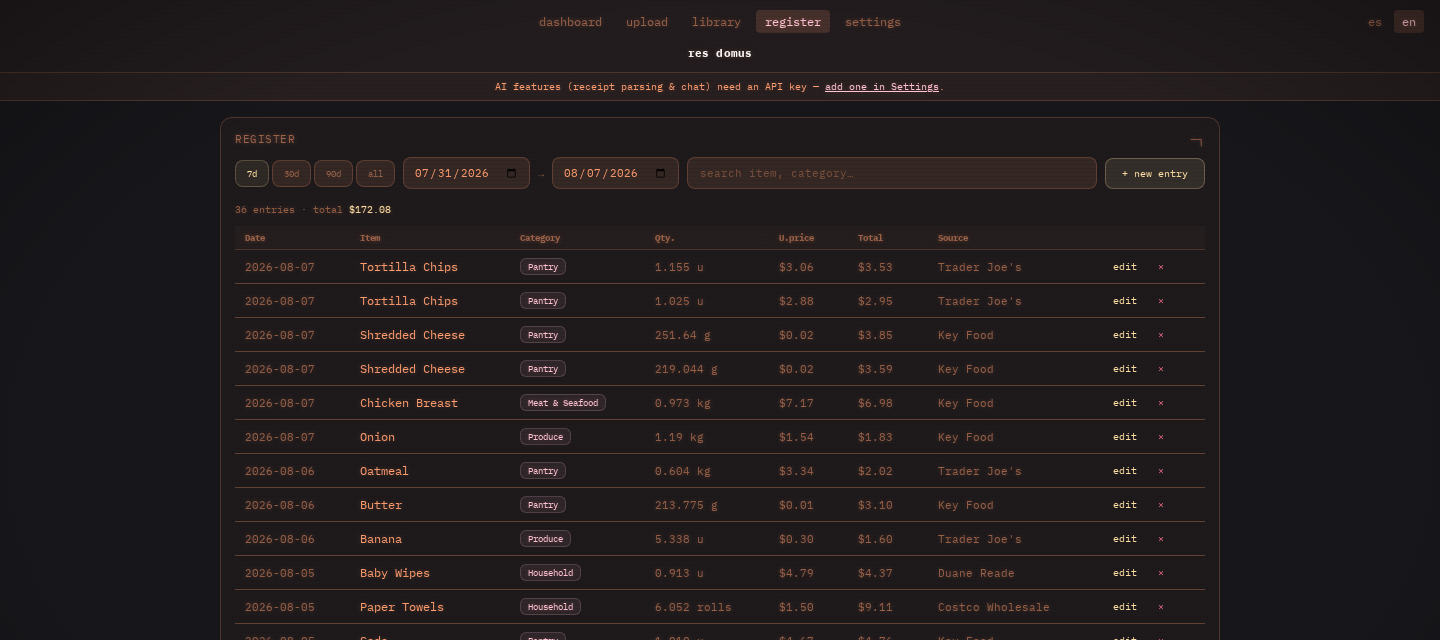
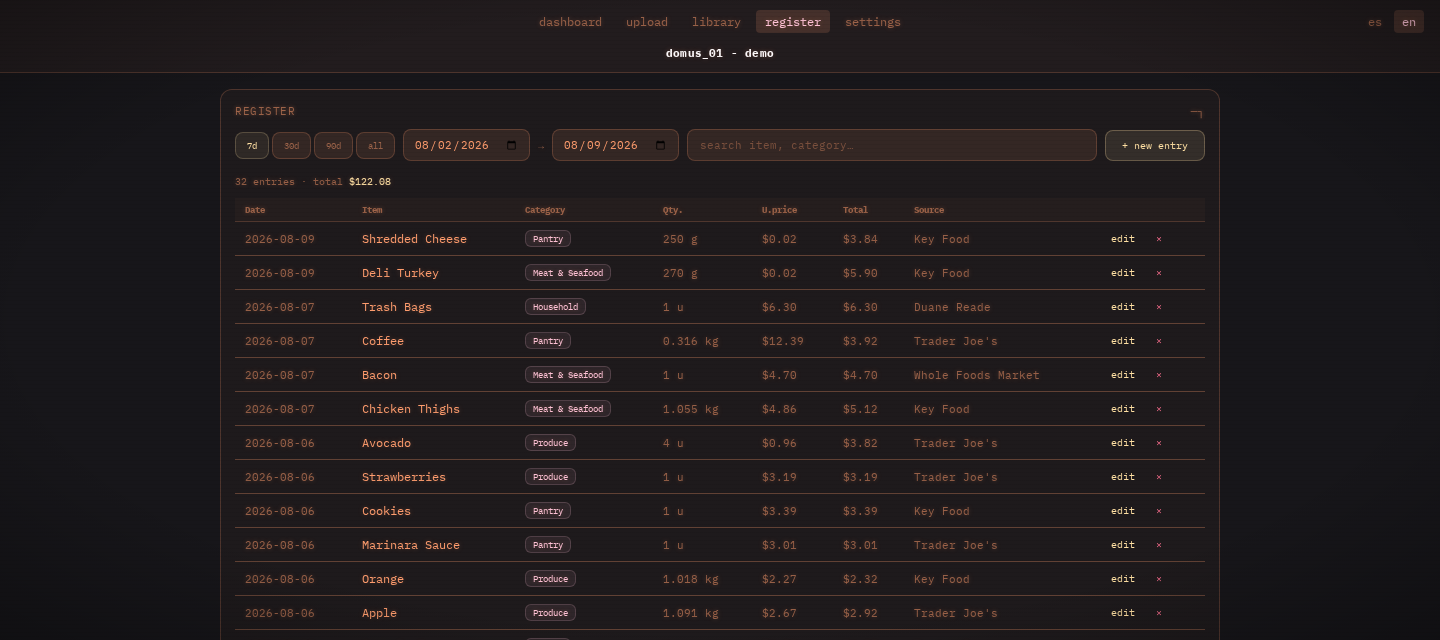
Round all demo quantities to realistic units, refresh stale register screenshot

diff --git a/scripts/generate_sample_db.py b/scripts/generate_sample_db.py
@@ -72,9 +72,12 @@ def iter_months(months_back: int):
 
 
 def round_qty(quantity: float, unit: str) -> float:
-    """Real receipts report gram/ml weights as whole numbers, never 3-decimal
-    fractions ("340 g", not "355.034 g")."""
-    return round(quantity) if unit in ("g", "ml") else round(quantity, 3)
+    """kg/l are the only units bought as a naturally fractional, scale-weighed
+    amount ("0.973 kg" is a real purchase). Everything else - grams/ml
+    (a discrete pack weight), and count-based units (u, cans, rolls, latas,
+    ...) - is bought as a whole number; a real receipt never reports
+    "355.034 g" or "6.052 rolls"."""
+    return round(quantity, 3) if unit in ("kg", "l") else round(quantity)
 
 
 def make_row(tmpl: dict, aux_row: dict, dt: date, unit_price: float, quantity: float) -> dict:
